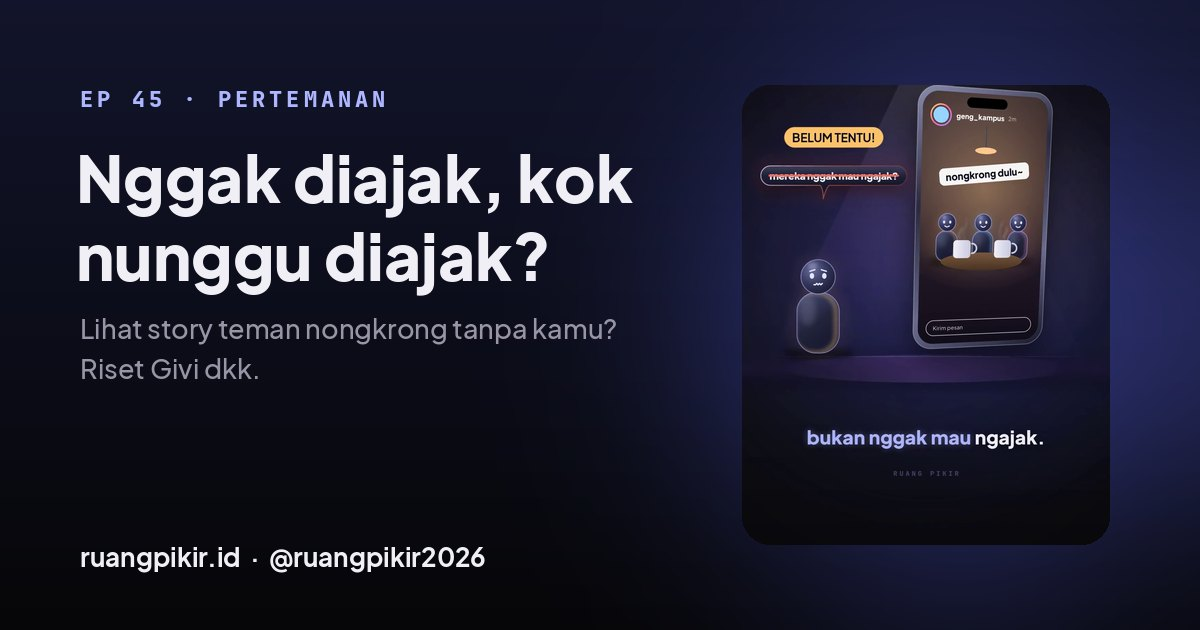
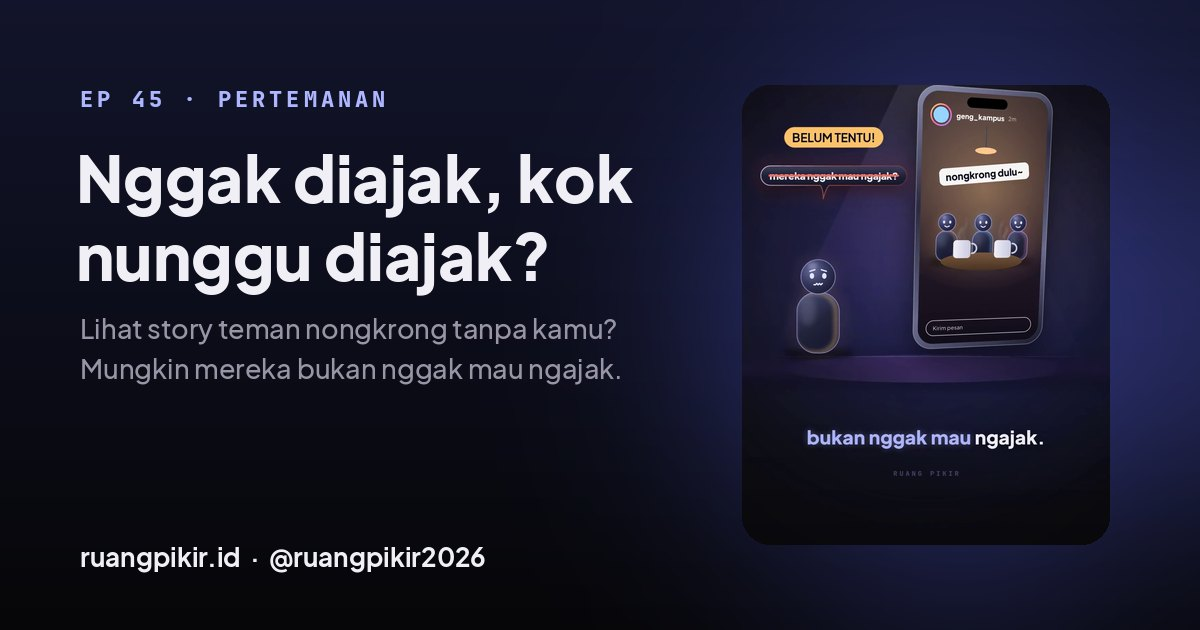
EP45: ringkasan web supaya gambar preview terpotong di akhir kalimat yang pas
Claude-Session: https://claude.ai/code/session_013BnxmbYrpGXWBEgYhJ9NNu

Changed region(s): [[0.0617, 0.573, 0.5242, 0.6032]]

diff --git a/website/episode/minta-ikut/index.html b/website/episode/minta-ikut/index.html
@@ -4,14 +4,14 @@
 <meta charset="utf-8">
 <meta name="viewport" content="width=device-width, initial-scale=1, viewport-fit=cover">
 <title>Nggak diajak, kok nunggu diajak? · Ruang Pikir</title>
-<meta name="description" content="Lihat story teman nongkrong tanpa kamu? Riset Givi dkk. (2025): kita jarang minta ikut karena mengira sengaja nggak diajak, padahal yang punya rencana justru pengen diminta dan sering cuma nggak kepikiran ngajak. Penjelasan singkat berbasis riset dan sumbernya.">
+<meta name="description" content="Lihat story teman nongkrong tanpa kamu? Mungkin mereka bukan nggak mau ngajak. Riset Givi, Grossman, Kirk &amp; Sedikides (2025): kita jarang minta ikut karena mengira sengaja nggak diajak, padahal yang punya rencana justru pengen diminta dan sering cuma nggak kepikiran ngajak. Penjelasan singkat berbasis riset dan sumbernya.">
 <link rel="canonical" href="https://ruangpikir.id/episode/minta-ikut/">
 <meta property="og:type" content="video.other">
 <meta property="og:site_name" content="Ruang Pikir">
 <meta property="og:locale" content="id_ID">
 <meta property="og:url" content="https://ruangpikir.id/episode/minta-ikut/">
 <meta property="og:title" content="Nggak diajak, kok nunggu diajak? · Ruang Pikir">
-<meta property="og:description" content="Lihat story teman nongkrong tanpa kamu? Riset Givi dkk. (2025): kita jarang minta ikut karena mengira sengaja nggak diajak, padahal yang punya rencana justru pengen diminta dan sering cuma nggak kepikiran ngajak. Penjelasan singkat berbasis riset dan sumbernya.">
+<meta property="og:description" content="Lihat story teman nongkrong tanpa kamu? Mungkin mereka bukan nggak mau ngajak. Riset Givi, Grossman, Kirk &amp; Sedikides (2025): kita jarang minta ikut karena mengira sengaja nggak diajak, padahal yang punya rencana justru pengen diminta dan sering cuma nggak kepikiran ngajak. Penjelasan singkat berbasis riset dan sumbernya.">
 <meta property="og:image" content="https://ruangpikir.id/episodes/minta-ikut-og.jpg">
 <meta property="og:image:width" content="1200">
 <meta property="og:image:height" content="630">
@@ -24,7 +24,7 @@
 <link rel="stylesheet" href="https://fonts.googleapis.com/css2?family=Plus+Jakarta+Sans:wght@400;500;600;700;800&family=Instrument+Serif:ital@0;1&family=JetBrains+Mono:wght@500;700&display=swap">
 <script>/* kelas awal: js = animasi muncul aktif, gl = browser sanggup 3D (hero dibuat lebih panjang untuk efek masuk pintu) */
 (function () { var d = document.documentElement; d.classList.add('js'); try { var m = window.matchMedia; if (document.createElement('canvas').getContext('webgl2') && !m('(prefers-reduced-motion: reduce)').matches && !(navigator.connection && navigator.connection.saveData)) d.classList.add('gl'); } catch (e) {} })();</script>
-<script type="application/ld+json">{"@context": "https://schema.org", "@type": "VideoObject", "name": "Nggak diajak, kok nunggu diajak?", "description": "Lihat story teman nongkrong tanpa kamu? Riset Givi dkk. (2025): kita jarang minta ikut karena mengira sengaja nggak diajak, padahal yang punya rencana justru pengen diminta dan sering cuma nggak kepikiran ngajak.", "thumbnailUrl": ["https://ruangpikir.id/episodes/minta-ikut-poster.jpg", "https://ruangpikir.id/episodes/minta-ikut-card.jpg"], "uploadDate": "2026-11-28", "duration": "PT47S", "contentUrl": "https://ruangpikir.id/videos/ruang-pikir-ep45-minta-ikut.mp4", "inLanguage": "id", "publisher": {"@type": "Organization", "name": "Ruang Pikir", "url": "https://ruangpikir.id/", "logo": "https://ruangpikir.id/apple-touch-icon.png", "sameAs": ["https://www.instagram.com/ruangpikir2026/", "https://www.tiktok.com/@ruangpikir2026"]}}</script>
+<script type="application/ld+json">{"@context": "https://schema.org", "@type": "VideoObject", "name": "Nggak diajak, kok nunggu diajak?", "description": "Lihat story teman nongkrong tanpa kamu? Mungkin mereka bukan nggak mau ngajak. Riset Givi, Grossman, Kirk & Sedikides (2025): kita jarang minta ikut karena mengira sengaja nggak diajak, padahal yang punya rencana justru pengen diminta dan sering cuma nggak kepikiran ngajak.", "thumbnailUrl": ["https://ruangpikir.id/episodes/minta-ikut-poster.jpg", "https://ruangpikir.id/episodes/minta-ikut-card.jpg"], "uploadDate": "2026-11-28", "duration": "PT47S", "contentUrl": "https://ruangpikir.id/videos/ruang-pikir-ep45-minta-ikut.mp4", "inLanguage": "id", "publisher": {"@type": "Organization", "name": "Ruang Pikir", "url": "https://ruangpikir.id/", "logo": "https://ruangpikir.id/apple-touch-icon.png", "sameAs": ["https://www.instagram.com/ruangpikir2026/", "https://www.tiktok.com/@ruangpikir2026"]}}</script>
 <style>
 /* Ruang Pikir — dark premium: hero 3D (three.js) + konten yang muncul halus saat discroll. Warna & font dari brand/BRAND.md */
 :root {
@@ -404,7 +404,7 @@ footer { position: relative; z-index: 2; overflow: hidden; border-top: 1px solid
       <a class="back" href="/episode/">← Semua episode</a>
       <div class="eyebrow">EP 45 · Pertemanan</div>
       <h1>Nggak diajak, kok nunggu diajak?</h1>
-      <p class="lead">Lihat story teman nongkrong tanpa kamu? Riset Givi dkk. (2025): kita jarang minta ikut karena mengira sengaja nggak diajak, padahal yang punya rencana justru pengen diminta dan sering cuma nggak kepikiran ngajak.</p>
+      <p class="lead">Lihat story teman nongkrong tanpa kamu? Mungkin mereka bukan nggak mau ngajak. Riset Givi, Grossman, Kirk &amp; Sedikides (2025): kita jarang minta ikut karena mengira sengaja nggak diajak, padahal yang punya rencana justru pengen diminta dan sering cuma nggak kepikiran ngajak.</p>
       <p>Lihat story teman nongkrong tanpa kamu, lalu langsung mikir &quot;mereka nggak mau ngajak aku&quot;? Tahun 2025, Julian Givi, Daniel Grossman, Colleen Kirk, dan Constantine Sedikides meneliti orang yang sebenarnya ingin ikut ke rencana orang lain, tapi nggak berani minta.</p>
       <p>Hasilnya, orang yang ingin ikut jauh lebih jarang meminta ikut dibanding yang diharapkan oleh si pemilik rencana. Penyebabnya, kita mengira sengaja tidak diajak dan bakal mengganggu kalau minta ikut. Padahal pemilik rencana justru senang kalau diminta, dan sering kali mereka tidak mengajak hanya karena tidak kepikiran.</p>
       <p>Catatan penting dari penelitinya: temuan ini berlaku untuk acara santai sehari-hari dengan orang yang sudah kamu kenal, seperti ngopi, nonton, atau makan siang. Bukan untuk acara resmi yang memang pakai undangan, seperti pernikahan.</p>

diff --git a/website/episode/ada-saran/index.html b/website/episode/ada-saran/index.html
@@ -430,7 +430,7 @@ footer { position: relative; z-index: 2; overflow: hidden; border-top: 1px solid
   <div class="meta">
     <span class="eyebrow">EP 45 · Pertemanan</span>
     <h3><a href="/episode/minta-ikut/">Nggak diajak, kok nunggu diajak?</a></h3>
-    <p>Lihat story teman nongkrong tanpa kamu? Riset Givi dkk. (2025): kita jarang minta ikut karena mengira sengaja nggak diajak, padahal yang punya rencana justru pengen diminta dan sering cuma nggak kepikiran ngajak.</p>
+    <p>Lihat story teman nongkrong tanpa kamu? Mungkin mereka bukan nggak mau ngajak. Riset Givi, Grossman, Kirk &amp; Sedikides (2025): kita jarang minta ikut karena mengira sengaja nggak diajak, padahal yang punya rencana justru pengen diminta dan sering cuma nggak kepikiran ngajak.</p>
     <a class="go" href="/episode/minta-ikut/">Penjelasan &amp; sumber →</a>
   </div>
 </article>

diff --git a/website/episode/aku-excited/index.html b/website/episode/aku-excited/index.html
@@ -431,7 +431,7 @@ footer { position: relative; z-index: 2; overflow: hidden; border-top: 1px solid
   <div class="meta">
     <span class="eyebrow">EP 45 · Pertemanan</span>
     <h3><a href="/episode/minta-ikut/">Nggak diajak, kok nunggu diajak?</a></h3>
-    <p>Lihat story teman nongkrong tanpa kamu? Riset Givi dkk. (2025): kita jarang minta ikut karena mengira sengaja nggak diajak, padahal yang punya rencana justru pengen diminta dan sering cuma nggak kepikiran ngajak.</p>
+    <p>Lihat story teman nongkrong tanpa kamu? Mungkin mereka bukan nggak mau ngajak. Riset Givi, Grossman, Kirk &amp; Sedikides (2025): kita jarang minta ikut karena mengira sengaja nggak diajak, padahal yang punya rencana justru pengen diminta dan sering cuma nggak kepikiran ngajak.</p>
     <a class="go" href="/episode/minta-ikut/">Penjelasan &amp; sumber →</a>
   </div>
 </article>

diff --git a/website/episode/bales-pakai-titik/index.html b/website/episode/bales-pakai-titik/index.html
@@ -430,7 +430,7 @@ footer { position: relative; z-index: 2; overflow: hidden; border-top: 1px solid
   <div class="meta">
     <span class="eyebrow">EP 45 · Pertemanan</span>
     <h3><a href="/episode/minta-ikut/">Nggak diajak, kok nunggu diajak?</a></h3>
-    <p>Lihat story teman nongkrong tanpa kamu? Riset Givi dkk. (2025): kita jarang minta ikut karena mengira sengaja nggak diajak, padahal yang punya rencana justru pengen diminta dan sering cuma nggak kepikiran ngajak.</p>
+    <p>Lihat story teman nongkrong tanpa kamu? Mungkin mereka bukan nggak mau ngajak. Riset Givi, Grossman, Kirk &amp; Sedikides (2025): kita jarang minta ikut karena mengira sengaja nggak diajak, padahal yang punya rencana justru pengen diminta dan sering cuma nggak kepikiran ngajak.</p>
     <a class="go" href="/episode/minta-ikut/">Penjelasan &amp; sumber →</a>
   </div>
 </article>

diff --git a/website/episode/baterai-sosial/index.html b/website/episode/baterai-sosial/index.html
@@ -430,7 +430,7 @@ footer { position: relative; z-index: 2; overflow: hidden; border-top: 1px solid
   <div class="meta">
     <span class="eyebrow">EP 45 · Pertemanan</span>
     <h3><a href="/episode/minta-ikut/">Nggak diajak, kok nunggu diajak?</a></h3>
-    <p>Lihat story teman nongkrong tanpa kamu? Riset Givi dkk. (2025): kita jarang minta ikut karena mengira sengaja nggak diajak, padahal yang punya rencana justru pengen diminta dan sering cuma nggak kepikiran ngajak.</p>
+    <p>Lihat story teman nongkrong tanpa kamu? Mungkin mereka bukan nggak mau ngajak. Riset Givi, Grossman, Kirk &amp; Sedikides (2025): kita jarang minta ikut karena mengira sengaja nggak diajak, padahal yang punya rencana justru pengen diminta dan sering cuma nggak kepikiran ngajak.</p>
     <a class="go" href="/episode/minta-ikut/">Penjelasan &amp; sumber →</a>
   </div>
 </article>

diff --git a/website/episode/bola-kristal/index.html b/website/episode/bola-kristal/index.html
@@ -430,7 +430,7 @@ footer { position: relative; z-index: 2; overflow: hidden; border-top: 1px solid
   <div class="meta">
     <span class="eyebrow">EP 45 · Pertemanan</span>
     <h3><a href="/episode/minta-ikut/">Nggak diajak, kok nunggu diajak?</a></h3>
-    <p>Lihat story teman nongkrong tanpa kamu? Riset Givi dkk. (2025): kita jarang minta ikut karena mengira sengaja nggak diajak, padahal yang punya rencana justru pengen diminta dan sering cuma nggak kepikiran ngajak.</p>
+    <p>Lihat story teman nongkrong tanpa kamu? Mungkin mereka bukan nggak mau ngajak. Riset Givi, Grossman, Kirk &amp; Sedikides (2025): kita jarang minta ikut karena mengira sengaja nggak diajak, padahal yang punya rencana justru pengen diminta dan sering cuma nggak kepikiran ngajak.</p>
     <a class="go" href="/episode/minta-ikut/">Penjelasan &amp; sumber →</a>
   </div>
 </article>

diff --git a/website/episode/boleh-peluk/index.html b/website/episode/boleh-peluk/index.html
@@ -430,7 +430,7 @@ footer { position: relative; z-index: 2; overflow: hidden; border-top: 1px solid
   <div class="meta">
     <span class="eyebrow">EP 45 · Pertemanan</span>
     <h3><a href="/episode/minta-ikut/">Nggak diajak, kok nunggu diajak?</a></h3>
-    <p>Lihat story teman nongkrong tanpa kamu? Riset Givi dkk. (2025): kita jarang minta ikut karena mengira sengaja nggak diajak, padahal yang punya rencana justru pengen diminta dan sering cuma nggak kepikiran ngajak.</p>
+    <p>Lihat story teman nongkrong tanpa kamu? Mungkin mereka bukan nggak mau ngajak. Riset Givi, Grossman, Kirk &amp; Sedikides (2025): kita jarang minta ikut karena mengira sengaja nggak diajak, padahal yang punya rencana justru pengen diminta dan sering cuma nggak kepikiran ngajak.</p>
     <a class="go" href="/episode/minta-ikut/">Penjelasan &amp; sumber →</a>
   </div>
 </article>

diff --git a/website/episode/cepat-akrab/index.html b/website/episode/cepat-akrab/index.html
@@ -430,7 +430,7 @@ footer { position: relative; z-index: 2; overflow: hidden; border-top: 1px solid
   <div class="meta">
     <span class="eyebrow">EP 45 · Pertemanan</span>
     <h3><a href="/episode/minta-ikut/">Nggak diajak, kok nunggu diajak?</a></h3>
-    <p>Lihat story teman nongkrong tanpa kamu? Riset Givi dkk. (2025): kita jarang minta ikut karena mengira sengaja nggak diajak, padahal yang punya rencana justru pengen diminta dan sering cuma nggak kepikiran ngajak.</p>
+    <p>Lihat story teman nongkrong tanpa kamu? Mungkin mereka bukan nggak mau ngajak. Riset Givi, Grossman, Kirk &amp; Sedikides (2025): kita jarang minta ikut karena mengira sengaja nggak diajak, padahal yang punya rencana justru pengen diminta dan sering cuma nggak kepikiran ngajak.</p>
     <a class="go" href="/episode/minta-ikut/">Penjelasan &amp; sumber →</a>
   </div>
 </article>

diff --git a/website/episode/cerita-duluan/index.html b/website/episode/cerita-duluan/index.html
@@ -430,7 +430,7 @@ footer { position: relative; z-index: 2; overflow: hidden; border-top: 1px solid
   <div class="meta">
     <span class="eyebrow">EP 45 · Pertemanan</span>
     <h3><a href="/episode/minta-ikut/">Nggak diajak, kok nunggu diajak?</a></h3>
-    <p>Lihat story teman nongkrong tanpa kamu? Riset Givi dkk. (2025): kita jarang minta ikut karena mengira sengaja nggak diajak, padahal yang punya rencana justru pengen diminta dan sering cuma nggak kepikiran ngajak.</p>
+    <p>Lihat story teman nongkrong tanpa kamu? Mungkin mereka bukan nggak mau ngajak. Riset Givi, Grossman, Kirk &amp; Sedikides (2025): kita jarang minta ikut karena mengira sengaja nggak diajak, padahal yang punya rencana justru pengen diminta dan sering cuma nggak kepikiran ngajak.</p>
     <a class="go" href="/episode/minta-ikut/">Penjelasan &amp; sumber →</a>
   </div>
 </article>

diff --git a/website/episode/cermin-vs-foto/index.html b/website/episode/cermin-vs-foto/index.html
@@ -430,7 +430,7 @@ footer { position: relative; z-index: 2; overflow: hidden; border-top: 1px solid
   <div class="meta">
     <span class="eyebrow">EP 45 · Pertemanan</span>
     <h3><a href="/episode/minta-ikut/">Nggak diajak, kok nunggu diajak?</a></h3>
-    <p>Lihat story teman nongkrong tanpa kamu? Riset Givi dkk. (2025): kita jarang minta ikut karena mengira sengaja nggak diajak, padahal yang punya rencana justru pengen diminta dan sering cuma nggak kepikiran ngajak.</p>
+    <p>Lihat story teman nongkrong tanpa kamu? Mungkin mereka bukan nggak mau ngajak. Riset Givi, Grossman, Kirk &amp; Sedikides (2025): kita jarang minta ikut karena mengira sengaja nggak diajak, padahal yang punya rencana justru pengen diminta dan sering cuma nggak kepikiran ngajak.</p>
     <a class="go" href="/episode/minta-ikut/">Penjelasan &amp; sumber →</a>
   </div>
 </article>

diff --git a/website/episode/chat-duluan/index.html b/website/episode/chat-duluan/index.html
@@ -430,7 +430,7 @@ footer { position: relative; z-index: 2; overflow: hidden; border-top: 1px solid
   <div class="meta">
     <span class="eyebrow">EP 45 · Pertemanan</span>
     <h3><a href="/episode/minta-ikut/">Nggak diajak, kok nunggu diajak?</a></h3>
-    <p>Lihat story teman nongkrong tanpa kamu? Riset Givi dkk. (2025): kita jarang minta ikut karena mengira sengaja nggak diajak, padahal yang punya rencana justru pengen diminta dan sering cuma nggak kepikiran ngajak.</p>
+    <p>Lihat story teman nongkrong tanpa kamu? Mungkin mereka bukan nggak mau ngajak. Riset Givi, Grossman, Kirk &amp; Sedikides (2025): kita jarang minta ikut karena mengira sengaja nggak diajak, padahal yang punya rencana justru pengen diminta dan sering cuma nggak kepikiran ngajak.</p>
     <a class="go" href="/episode/minta-ikut/">Penjelasan &amp; sumber →</a>
   </div>
 </article>

diff --git a/website/episode/deep-talk/index.html b/website/episode/deep-talk/index.html
@@ -430,7 +430,7 @@ footer { position: relative; z-index: 2; overflow: hidden; border-top: 1px solid
   <div class="meta">
     <span class="eyebrow">EP 45 · Pertemanan</span>
     <h3><a href="/episode/minta-ikut/">Nggak diajak, kok nunggu diajak?</a></h3>
-    <p>Lihat story teman nongkrong tanpa kamu? Riset Givi dkk. (2025): kita jarang minta ikut karena mengira sengaja nggak diajak, padahal yang punya rencana justru pengen diminta dan sering cuma nggak kepikiran ngajak.</p>
+    <p>Lihat story teman nongkrong tanpa kamu? Mungkin mereka bukan nggak mau ngajak. Riset Givi, Grossman, Kirk &amp; Sedikides (2025): kita jarang minta ikut karena mengira sengaja nggak diajak, padahal yang punya rencana justru pengen diminta dan sering cuma nggak kepikiran ngajak.</p>
     <a class="go" href="/episode/minta-ikut/">Penjelasan &amp; sumber →</a>
   </div>
 </article>
